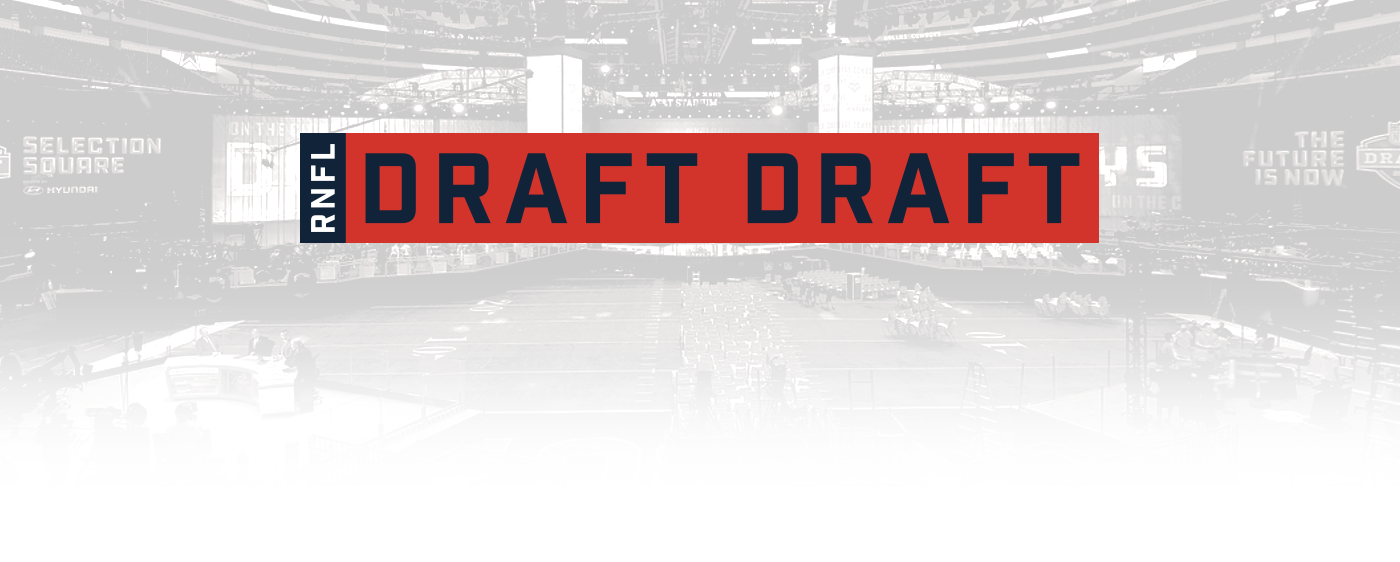
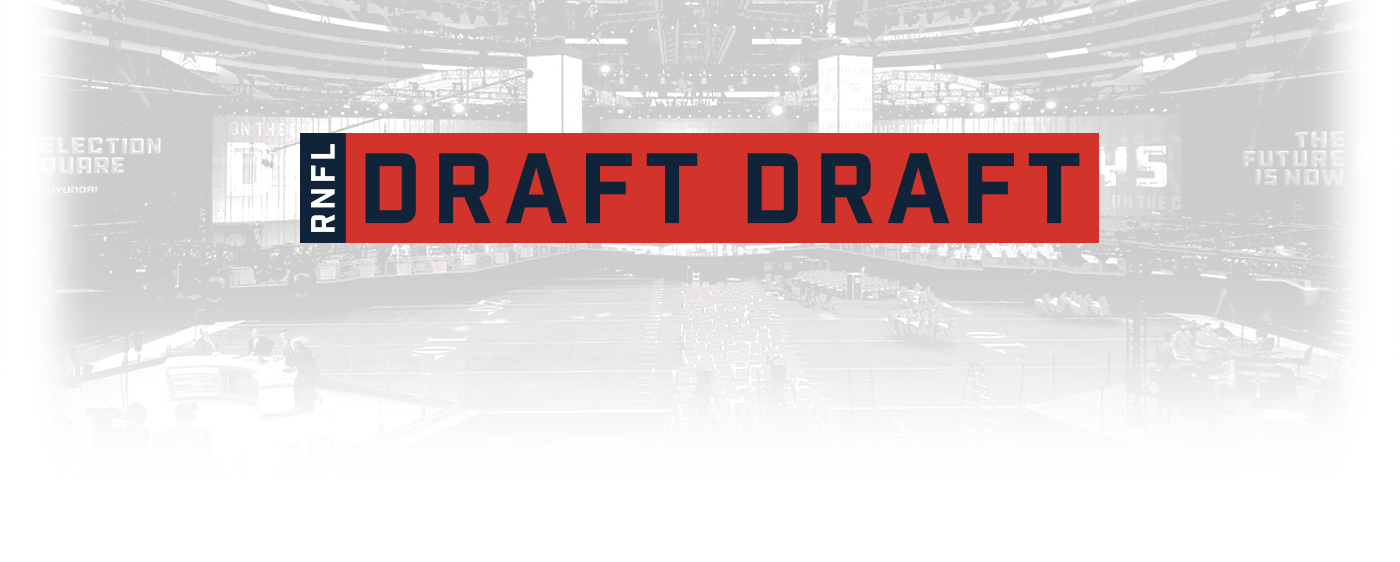
last adjustment to draft theme

Changed region(s): [[0.9521, 0.0, 1.0, 0.6655], [0.0, 0.0, 0.0614, 0.6655]]

diff --git a/src/scss/_controls.scss b/src/scss/_controls.scss
@@ -1,4 +1,4 @@
-$headerHeight: 360px; //ex: 20px or false
+$headerHeight: 380px; //ex: 20px or false
 $headerSideOffset: 340px; //ex: 20px or false
 
 // New Promo
